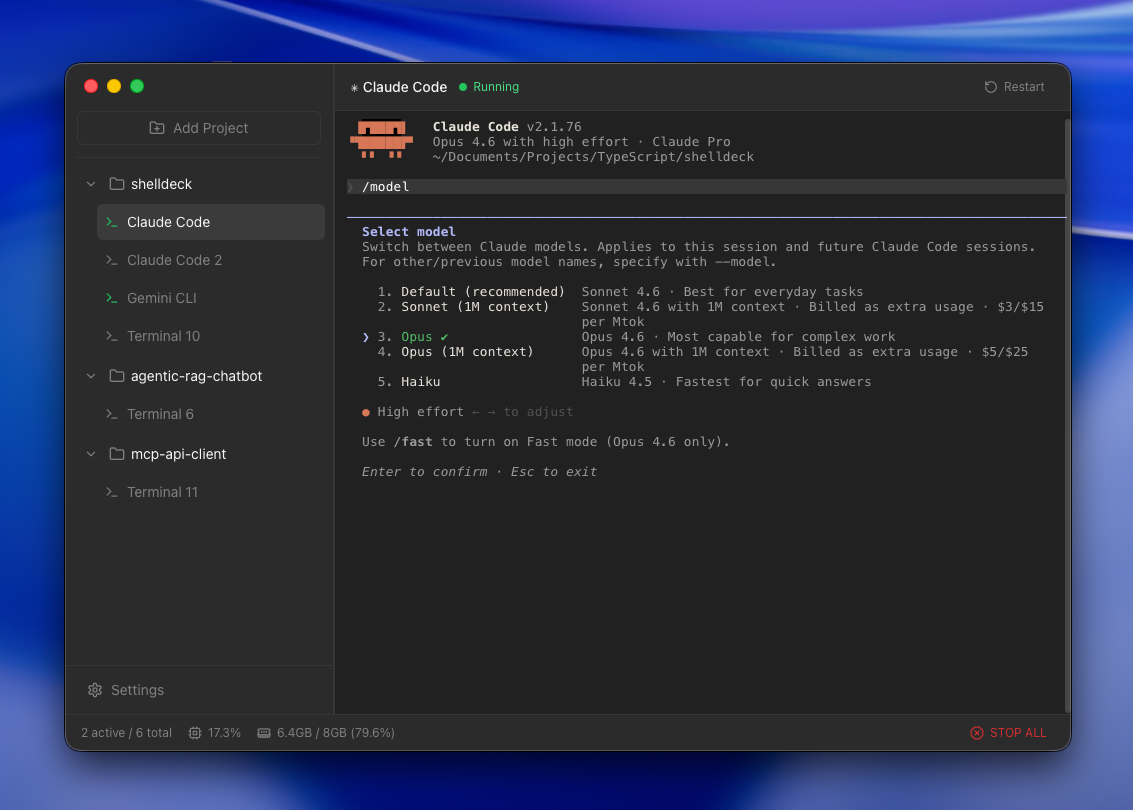
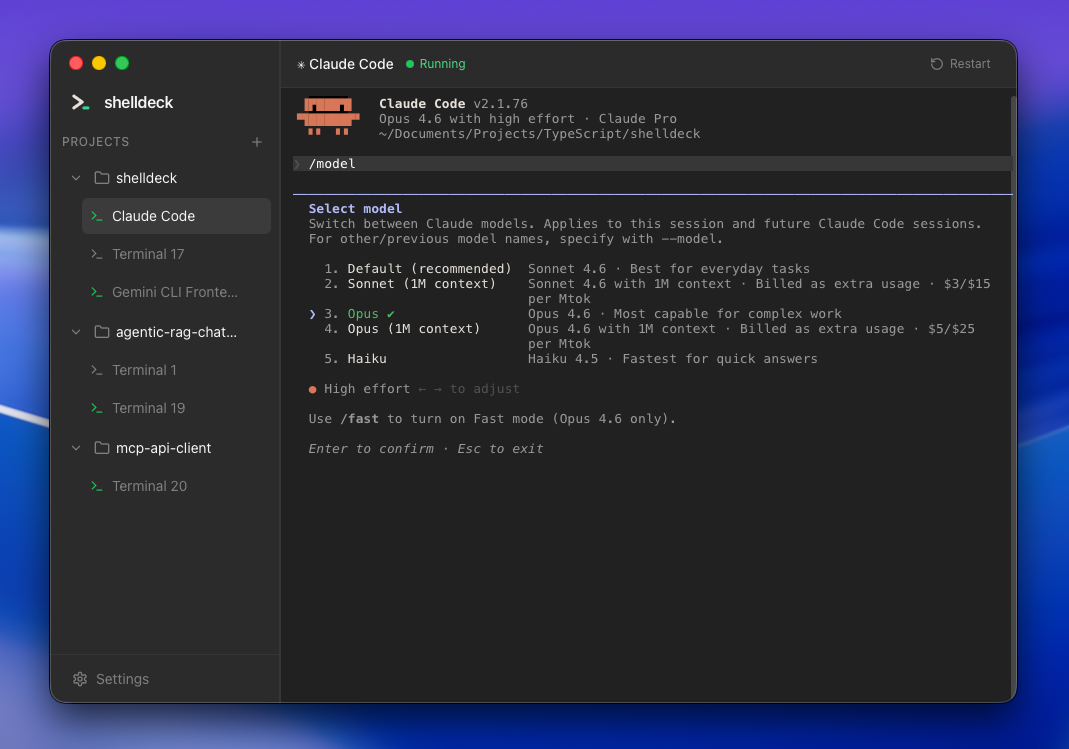
feat: remove status bar and system monitor
Remove the bottom status bar (CPU, memory, version), the Rust
system_monitor module, sysinfo crate dependency, and all related
frontend code. Simplify idle screen with a subtle logo watermark.

Changed region(s): [[0.0, 0.0, 1.0, 1.0], [0.0, 0.9519, 0.0309, 1.0], [0.1235, 0.6449, 0.1543, 0.6756]]

diff --git a/src/App.tsx b/src/App.tsx
@@ -1,6 +1,6 @@
 /**
  * App — root layout component.
- * Three-panel layout: Sidebar | ResizeHandle | Workspace | StatusBar (bottom).
+ * Two-panel layout: Sidebar | ResizeHandle | Workspace.
  * Sidebar width is persisted to settings.
  * When settings is open, the workspace is replaced by the settings panel.
  */
@@ -11,7 +11,6 @@ import { Sidebar } from '@/components/sidebar/Sidebar'
 import { ResizeHandle } from '@/components/sidebar/ResizeHandle'
 import { Workspace } from '@/components/workspace/Workspace'
 import { Settings } from '@/components/settings/Settings'
-import { StatusBar } from '@/components/statusbar/StatusBar'
 import { useKeyboardShortcuts } from '@/hooks/use-keyboard-shortcuts'
 import { useSettings } from '@/context/settings-context'
 import { useAutoUpdate } from '@/hooks/use-auto-update'
@@ -50,30 +49,27 @@ export function App() {
   }, [updateSetting])
 
   return (
-    <div className="h-screen flex flex-col">
-      <div className="flex flex-1 min-h-0">
-        <Sidebar
-          width={sidebarWidth}
-          settingsOpen={settingsOpen}
-          settingsCategory={settingsCategory}
-          onOpenSettings={() => setSettingsOpen(true)}
-          onCloseSettings={() => setSettingsOpen(false)}
-          onSelectSettingsCategory={setSettingsCategory}
-        />
-        <ResizeHandle
-          sidebarWidth={sidebarWidth}
-          onResize={setSidebarWidth}
-          onResizeEnd={handleResizeEnd}
-        />
-        {settingsOpen && <Settings category={settingsCategory} />}
-        <div
-          className="flex-1 flex flex-col min-w-0"
-          style={{ display: settingsOpen ? 'none' : undefined }}
-        >
-          <Workspace />
-        </div>
+    <div className="h-screen flex">
+      <Sidebar
+        width={sidebarWidth}
+        settingsOpen={settingsOpen}
+        settingsCategory={settingsCategory}
+        onOpenSettings={() => setSettingsOpen(true)}
+        onCloseSettings={() => setSettingsOpen(false)}
+        onSelectSettingsCategory={setSettingsCategory}
+      />
+      <ResizeHandle
+        sidebarWidth={sidebarWidth}
+        onResize={setSidebarWidth}
+        onResizeEnd={handleResizeEnd}
+      />
+      {settingsOpen && <Settings category={settingsCategory} />}
+      <div
+        className="flex-1 flex flex-col min-w-0"
+        style={{ display: settingsOpen ? 'none' : undefined }}
+      >
+        <Workspace />
       </div>
-      <StatusBar />
     </div>
   )
 }

diff --git a/src/components/workspace/IdleScreen.tsx b/src/components/workspace/IdleScreen.tsx
@@ -1,34 +1,9 @@
 /**
  * IdleScreen — shown when no terminal session is active.
- * Displays the shelldeck logo, app name, and usage hints.
+ * Displays usage hints for getting started.
  */
 
 import { Plus, FolderOpen } from 'lucide-react'
-
-function Logo({ className }: { className?: string }) {
-  return (
-    <svg viewBox="0 0 512 512" className={className} fill="none">
-      <path
-        d="M 144 148 L 296 256 L 144 364"
-        stroke="currentColor"
-        strokeWidth="56"
-        strokeLinecap="round"
-        strokeLinejoin="round"
-        className="text-zinc-500"
-      />
-      <line
-        x1="328"
-        y1="364"
-        x2="400"
-        y2="364"
-        stroke="currentColor"
-        strokeWidth="56"
-        strokeLinecap="round"
-        className="text-emerald-500"
-      />
-    </svg>
-  )
-}
 
 const hints = [
   { icon: FolderOpen, label: 'Add or select a project', description: 'from the sidebar' },
@@ -38,15 +13,31 @@ const hints = [
 export function IdleScreen() {
   return (
     <div className="flex-1 flex items-center justify-center bg-background">
-      <div className="flex flex-col items-center gap-8 max-w-sm text-center">
-        <Logo className="w-20 h-20" />
-
-        <div className="space-y-2">
-          <h1 className="text-xl font-semibold text-foreground tracking-tight">shelldeck</h1>
-          <p className="text-sm text-muted-foreground">No active terminal session.</p>
-        </div>
+      <div className="flex flex-col items-center gap-6 max-w-sm w-full">
+        {/* Logo mark as subtle visual anchor */}
+        <svg viewBox="0 0 512 512" className="w-12 h-12 opacity-15" fill="none">
+          <path
+            d="M 144 148 L 296 256 L 144 364"
+            stroke="currentColor"
+            strokeWidth="56"
+            strokeLinecap="round"
+            strokeLinejoin="round"
+          />
+          <line
+            x1="328"
+            y1="364"
+            x2="400"
+            y2="364"
+            stroke="currentColor"
+            strokeWidth="56"
+            strokeLinecap="round"
+          />
+        </svg>
 
         <div className="flex flex-col gap-3 w-full">
+          <p className="text-sm text-muted-foreground text-center mb-1">
+            No active terminal session.
+          </p>
           {hints.map((hint) => (
             <div
               key={hint.label}

diff --git a/src/lib/api.ts b/src/lib/api.ts
@@ -8,7 +8,7 @@
 import { invoke } from '@tauri-apps/api/core'
 import { open } from '@tauri-apps/plugin-dialog'
 import { platform } from '@tauri-apps/plugin-os'
-import type { Project, TerminalSession, SystemStats, AppSettings } from '@/types'
+import type { Project, TerminalSession, AppSettings } from '@/types'
 
 // --- PTY Management ---
 
@@ -167,10 +167,4 @@ export async function saveSettings(settings: AppSettings): Promise<void> {
 
 export async function pathExists(path: string): Promise<boolean> {
   return await invoke<boolean>('path_exists', { path })
-}
-
-// --- System Stats ---
-
-export async function getSystemStats(): Promise<SystemStats> {
-  return await invoke<SystemStats>('get_system_stats')
 }

diff --git a/src/types.ts b/src/types.ts
@@ -17,14 +17,6 @@ export interface TerminalSession {
   isRunning: boolean
 }
 
-/** System resource usage stats. */
-export interface SystemStats {
-  cpuUsage: number // percentage 0-100
-  memoryUsage: number // percentage 0-100
-  memoryUsedGB: number
-  memoryTotalGB: number
-}
-
 /** Persistent app settings. */
 export interface AppSettings {
   sidebarWidth: number

diff --git a/src-tauri/src/lib.rs b/src-tauri/src/lib.rs
@@ -1,9 +1,6 @@
 mod menu;
 mod pty;
 mod store;
-mod system_monitor;
-
-use system_monitor::SystemMonitor;
 
 #[tauri::command]
 fn path_exists(path: String) -> bool {
@@ -34,7 +31,6 @@ pub fn run() {
             menu::setup(app)?;
             Ok(())
         })
-        .manage(SystemMonitor::new())
         .manage(pty::PtyState::default())
         .invoke_handler(tauri::generate_handler![
             store::get_projects,
@@ -43,7 +39,6 @@ pub fn run() {
             store::save_sessions,
             store::get_settings,
             store::save_settings,
-            system_monitor::get_system_stats,
             path_exists,
             pty::pty_spawn,
             pty::pty_write,

diff --git a/AGENTS.md b/AGENTS.md
@@ -20,7 +20,6 @@ shelldeck is a Tauri v2 app with a React frontend and Rust backend:
 **Rust backend** (`src-tauri/src/`) — Modular backend split into focused files:
 - `pty.rs` — PTY management using `portable-pty`. Async commands via Tokio for spawn, read, write, resize, kill, and cleanup.
 - `store.rs` — JSON file persistence for projects, sessions, and settings in the Tauri app data dir.
-- `system_monitor.rs` — System stats (CPU, memory) via `sysinfo` crate.
 - `menu.rs` — Native app menu with check-for-updates support.
 - `lib.rs` — Tauri setup, plugin registration, and command handler.
 
@@ -31,18 +30,16 @@ shelldeck is a Tauri v2 app with a React frontend and Rust backend:
 - `hooks/use-terminal.ts` — Terminal lifecycle: xterm.js instances, PTY attach/detach, fit, search, bell detection. Consumed by `TerminalManagerProvider`.
 - `hooks/use-inline-rename.ts` — Reusable inline rename behavior (shared by ProjectList and TerminalList).
 - `hooks/use-drag-reorder.ts` — Pointer-based drag-to-reorder for vertical lists (used by ProjectList).
-- `hooks/use-system-stats.ts` — Polls backend for CPU/memory stats.
 - `hooks/use-keyboard-shortcuts.ts` — Global shortcuts (Cmd+T, Cmd+W, Cmd+Shift+[/], Cmd+1-9).
 - `hooks/use-auto-update.ts` — Checks for updates on launch.
 - `components/sidebar/` — Project list, terminal list, resize handle.
 - `components/workspace/` — Terminal view, header, search bar, idle screen.
 - `components/settings/` — Settings panel with sidebar navigation.
-- `components/statusbar/` — System stats display.
 - `components/ui/` — shadcn/ui primitives (button, switch, context-menu).
 
-**Types** (`src/types.ts`) — Single source of truth for shared data types (Project, TerminalSession, SystemStats, AppSettings, SettingsCategory, TerminalManager).
+**Types** (`src/types.ts`) — Single source of truth for shared data types (Project, TerminalSession, AppSettings, SettingsCategory, TerminalManager).
 
-**API bridge** (`src/lib/api.ts`) — Centralizes all Tauri communication. All operations (PTY, store, dialog, stats, fs) go through `invoke()` commands to the Rust backend.
+**API bridge** (`src/lib/api.ts`) — Centralizes all Tauri communication. All operations (PTY, store, dialog, fs) go through `invoke()` commands to the Rust backend.
 
 ## Adding a New Tauri Command
 
